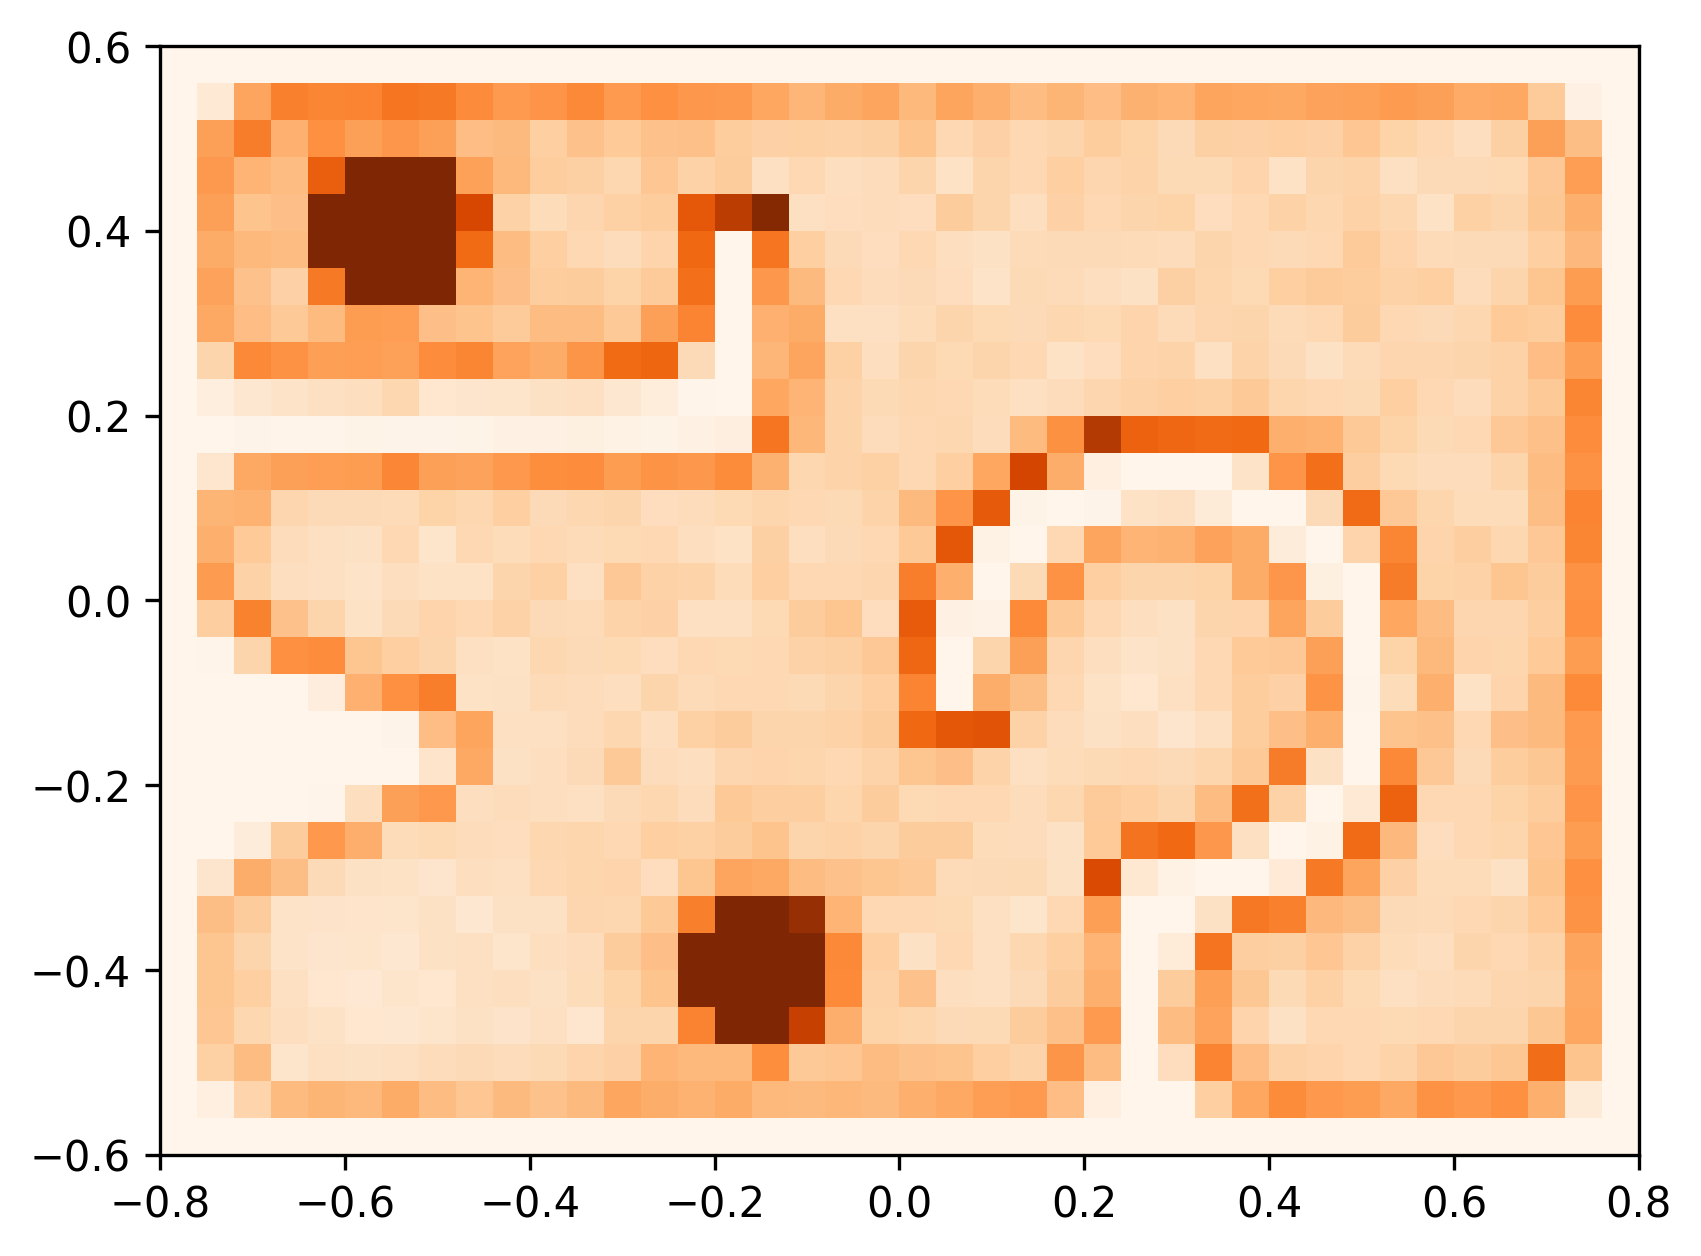
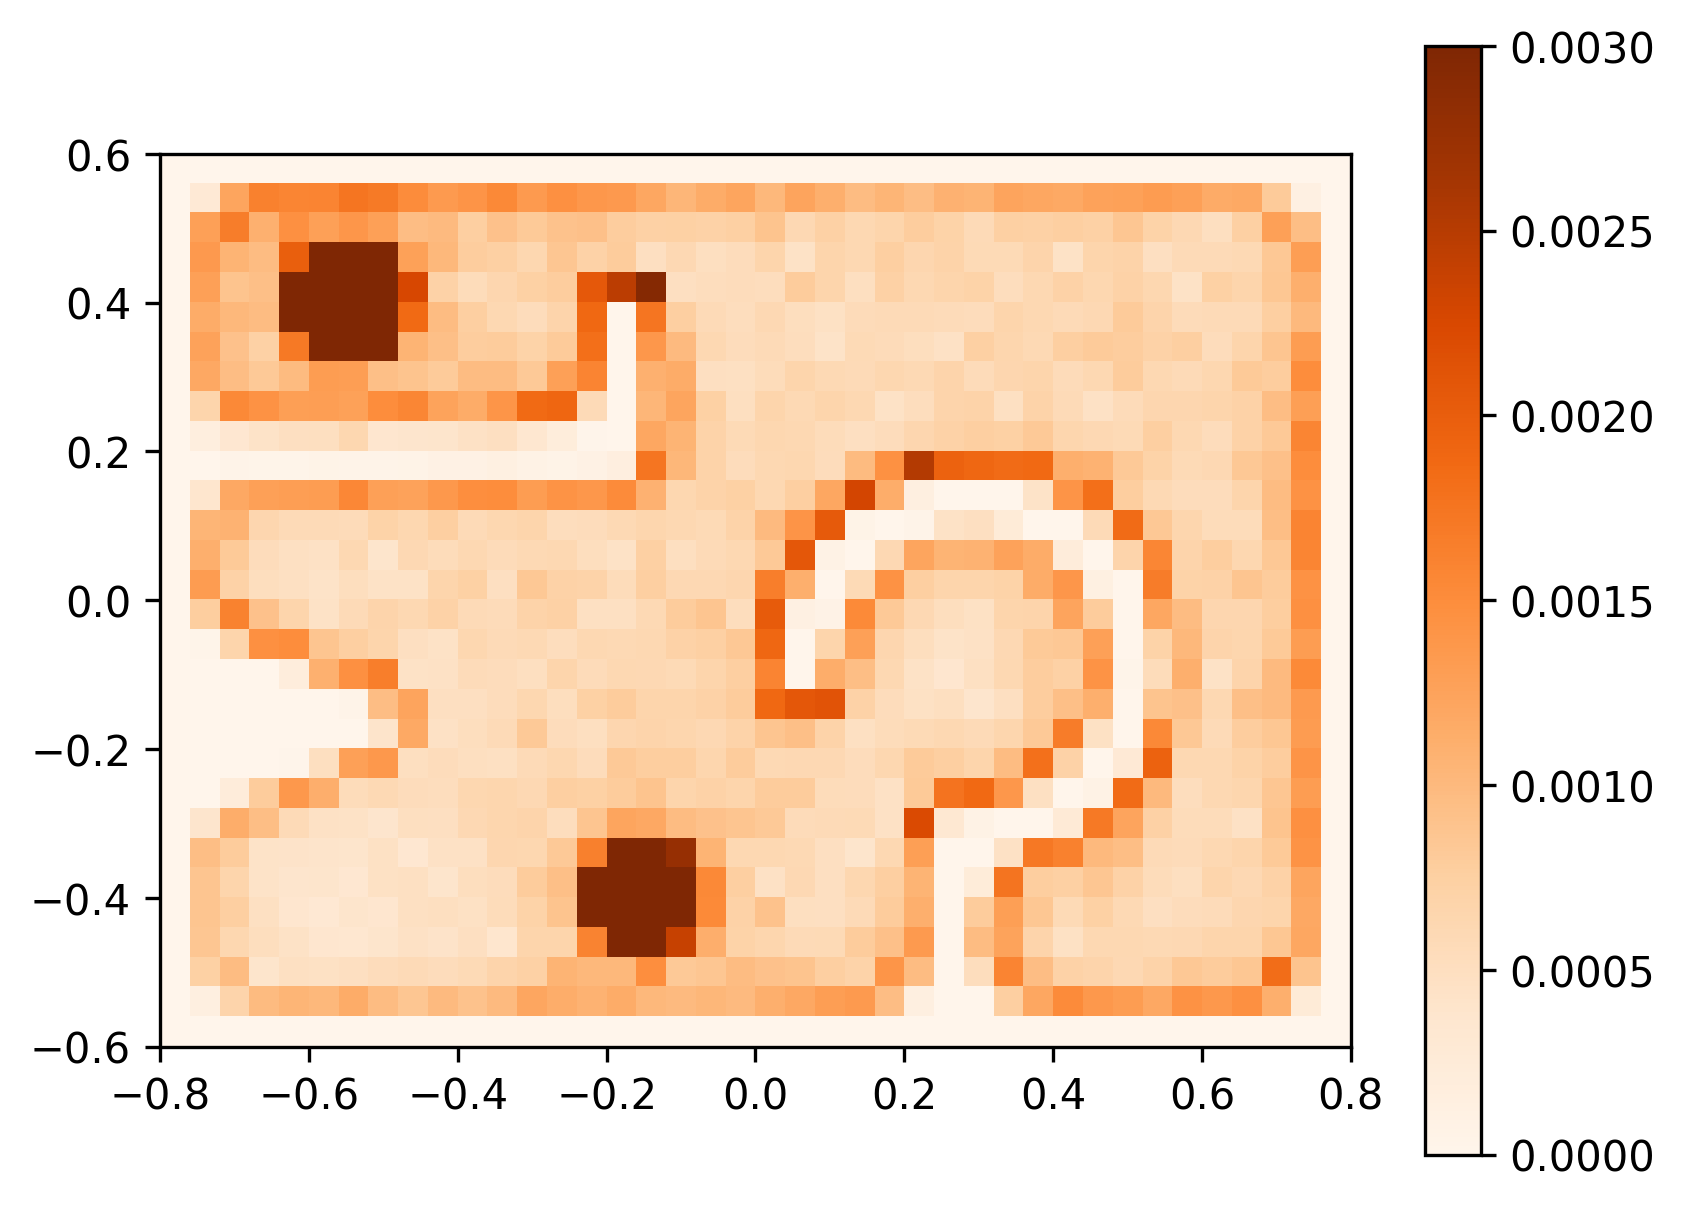
stuff

diff --git a/code/simulation/draw_position_probability.py b/code/simulation/draw_position_probability.py
@@ -48,23 +48,47 @@ def plot_presence_probability(ax, df, bins=(30, 30), tank_pos=(0, 0), tank_size=
 for name in ["Homogeneous_1AB","Homogeneous_10AB","Heterogeneous_1AB","Heterogeneous_10AB"]:
     fig, ax = plt.subplots()
     df = pd.read_csv(f"simulations/{name}.csv")
-    plot_presence_probability(ax, df, tank_pos=(-0.6, -0.6), tank_size=(1.2, 1.2))
-    plt.savefig(f"simulations/sim_{name}.png", dpi=300, bbox_inches="tight")
-    plt.close()
+
+    mappable = plot_presence_probability(
+        ax, df, tank_pos=(-0.6, -0.6), tank_size=(1.2, 1.2)
+    )
+    fig.colorbar(mappable, ax=ax, label="Presence probability")
+
+    fig.savefig(f"simulations/sim_{name}.png", dpi=300, bbox_inches="tight")
+    plt.close(fig)
+
     fig, ax = plt.subplots()
     df = get_positions(f"experimental_data/Zebrafish_Positions_data/{name}/*")
     df["x"] -= 0.6
     df["y"] -= 0.6
-    plot_presence_probability(ax, df, tank_pos=(-0.6, -0.6), tank_size=(1.2, 1.2), cmap="Blues")
+
+    mappable = plot_presence_probability(
+        ax, df,
+        tank_pos=(-0.6, -0.6),
+        tank_size=(1.2, 1.2),
+        cmap="Blues"
+    )
+    fig.colorbar(mappable, ax=ax)
+
     fig.savefig(f"simulations/exp_{name}.png", dpi=300, bbox_inches="tight")
     plt.close(fig)
+
 
 for name in ["Drawn_1AB","Drawn_10AB"]:
     fig, ax = plt.subplots()
     df = pd.read_csv(f"simulations/{name}.csv")
-    plot_presence_probability(ax, df, bins=(40, 30), tank_pos=(-0.8, -0.6), tank_size=(1.6, 1.2))
-    plt.savefig(f"simulations/{name}.png", dpi=300, bbox_inches="tight")
-    plt.close()
+
+    mappable = plot_presence_probability(
+        ax, df,
+        bins=(40, 30),
+        tank_pos=(-0.8, -0.6),
+        tank_size=(1.6, 1.2)
+    )
+    fig.colorbar(mappable, ax=ax)
+
+    fig.savefig(f"simulations/{name}.png", dpi=300, bbox_inches="tight")
+    plt.close(fig)
+
 
 sim_homogeneous_1AB_df = pd.read_csv(f"simulations/Homogeneous_1AB.csv")
 sim_homogeneous_10AB_df = pd.read_csv(f"simulations/Homogeneous_10AB.csv")

diff --git a/code/simulation/config.py b/code/simulation/config.py
@@ -37,7 +37,7 @@ PDF_KF = 20  # percieved fish dispersion
 PDF_KS_0 = 10  # spot of interest dispersion when outside spot
 PDF_KS_S = 0.5   # spot of interest dispersion when under spot 
 
-PDF_KWB = 3
+PDF_KWB = 3 # forward facing amplification parameter
 
 # Weights
 PDF_ALPHA_0 = 7    # weight of the perceived fish during basic-swimming

diff --git a/README.md b/README.md
@@ -7,11 +7,11 @@
 - Urban Vesel | [ultraviolet99](https://github.com/ultraviolet99)
 
 ## Project description
-The study used as the starting point for this assignment was [Collignon et al. 2016](#collignon2016). The paper presents a model describing the visual sensory system of zebrafish, introduces a stochastic process based on a probability distribution function to model fish movement depending on their surroundings. The model is then compared to experimental data acquired by recording real life zebrafish and their changes in behaviour when introducing points of interest into the environment. Our goal is to implement the model, validate it by comparing it to the real life experimental data, and then possibly extend it by adding interactive control over positions of points of interest and differently shaped environments to see how the fish react.
+The study used as the starting point for this assignment was [Collignon et al. 2016](#collignon2016). The paper presents a model describing the visual sensory system of zebrafish, introduces a stochastic process based on a probability distribution function to model fish movement depending on their surroundings. The model is then compared to experimental data acquired by recording real life zebrafish and their changes in behaviour when introducing spots of interest into the environment. Our goal is to implement the model, validate it by comparing it to the real life experimental data, and then extend it by adding interactive control over fish and of spots of interest and differently shaped environments to see how the fish react.
 
 ## Project plan
 ### [Milestone: First report - 16. 11. 2025](https://github.com/ozbej-k/Skupinsko-Vedenje-25-26-GroupF/milestone/1):
-- Explore existing vision based models and models which explore points of interest
+- Explore existing vision based models and models which explore spots of interest
 - Set a strategy for reproducing the results in the source paper
 - Discuss and plan implementation (select tools and collect any needed data)
 
@@ -30,7 +30,7 @@ The study used as the starting point for this assignment was [Collignon et al. 2
 ## Implementation
 The implementation of the stochastic vision-based model described in the the source paper can be found in `code/simulation`. The model has been extended to run in real-time with a running visualisation of the fish in the environment. 
 
-The model supports bounded homogeneous and heterogeneous environments with spots of interest, where fish percieve their surroundings and gather information based on a 270° field of view and give each percieved stimuli a weight depending on how large they appear on in their field of view.
+The model supports bounded homogeneous and heterogeneous environments with spots of interest, where fish percieve their surroundings and gather information based on a 270° field of view and give each perceived stimuli a weight depending on how large they appear on in their field of view.
 
 A screenshot of the simulation running in a heterogeneous environment with 10 fish and 2 spots of interest can be seen on the following image.
 <div align="center">
@@ -41,8 +41,8 @@ The model defines an orientation and speed probability density function (PDF) wh
 
 The full orientation PDF $f$ is a composite of the following distributions:
 - $f_0$ - basic-swimming or wall-following behaviour if close to wall,
-- $f_f$ - influence of other percieved fish,
-- $f_s$ - influence of percieved spots of interest.
+- $f_f$ - influence of other perceived fish,
+- $f_s$ - influence of perceived spots of interest.
 
 An example of an orientation PDF can be seen on the following image which contains plots of the PDF in cartesian (left) and polar (right) coordinates, where how different stimuli influence the probability of the fish changing its orientation.
 
@@ -113,11 +113,11 @@ whose results can be seen in the image below:
 <img src="code/simulation/simulations/drawn_presence_probability.png" width="550"/>
 </div>
 
-## Co
+## Conclusion
 We successfully implemented the stochastic zebrafish behaviour model presented by Collignon et al. and reproduced presence probabilities for both homogeneous and heterogeneous environments, which closely match experimentally recorded data. We also developed an interactive simulation that allows control over fish and spots, and improved its performance by approximating the solid-angle calculations in the perception model using fitted functions.  
 The model was further extended to irregular environments, which can contain arbitrary wall configurations drawn directly within the interactive simulation. The resulting presence probability images, shown on Figure~\ref{drawn_presence}, clearly display fish navigating around the irregular wall structures.  
 
-Future work would focus on acquiring experimental zebrafish data in irregular environments to evaluate how well the model reproduces real fish behaviour in non square-walled environments.
+Future work would focus on adding more stimuli to the environment, such as food and acquiring experimental zebrafish data in irregular environments to evaluate how well the model reproduces real fish behaviour in non square-walled environments.
 
 
 ## References
